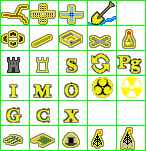
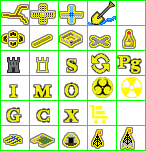
Upgrade
1. Exiting GOTO mode restores game_unit_panel.
2. Differentiate a Sentry unit from a Cargo unit.
3. Better panel info for Transporting/Transported units

Changed region(s): [[0.6027, 0.6887, 0.7397, 0.8212]]

diff --git a/freeciv-web/src/main/webapp/javascript/2dcanvas/tilespec.js b/freeciv-web/src/main/webapp/javascript/2dcanvas/tilespec.js
@@ -1008,7 +1008,7 @@ function get_unit_veteran_sprite(punit)
 }
 
 /**********************************************************************
-  ...
+  ...resequenced in order of frequency
 ***********************************************************************/
 function get_unit_activity_sprite(punit)
 {
@@ -1016,16 +1016,43 @@ function get_unit_activity_sprite(punit)
   var act_tgt  = punit['activity_tgt'];
 
   switch (activity) {
-    case ACTIVITY_POLLUTION:
-      return {"key" : "unit.pollution",
-          "offset_x" : unit_activity_offset_x,
-          "offset_y" : - unit_activity_offset_y};
+    case ACTIVITY_GEN_ROAD:
+      return {"key" : tileset_extra_id_activity_graphic_tag(act_tgt),
+              "offset_x" : unit_activity_offset_x,
+              "offset_y" : - unit_activity_offset_y};
 
-     case ACTIVITY_FALLOUT:
-        return {"key" : "unit.fallout",
+    case ACTIVITY_IRRIGATE:
+        return {"key" : -1 == act_tgt ?
+                          "unit.irrigate" :
+                          tileset_extra_id_activity_graphic_tag(act_tgt),
+                "offset_x" : unit_activity_offset_x,
+                "offset_y" : - unit_activity_offset_y};
+
+    case ACTIVITY_GOTO:
+        return {"key" : "unit.goto",
             "offset_x" : unit_activity_offset_x,
             "offset_y" : - unit_activity_offset_y};
-        
+            
+    case ACTIVITY_FORTIFYING:
+        return {"key" : "unit.fortifying",
+            "offset_x" : unit_activity_offset_x,
+            "offset_y" : - unit_activity_offset_y};
+
+    case ACTIVITY_SENTRY:
+        if (punit['transported']) { // show if unit is "cargo-sentry"
+          return {"key" : "unit.cargo",
+            "offset_x" : unit_activity_offset_x,
+            "offset_y" : - unit_activity_offset_y};
+        } 
+        return {"key" : "unit.sentry",
+            "offset_x" : unit_activity_offset_x,
+            "offset_y" : - unit_activity_offset_y};
+          
+    case ACTIVITY_FORTIFIED:
+        return {"key" : "unit.fortified",
+            "offset_x" : unit_activity_offset_x,
+            "offset_y" : - unit_activity_offset_y};
+
     case ACTIVITY_MINE:
       return {"key"      : -1 == act_tgt ?
                              "unit.plant" :
@@ -1033,35 +1060,13 @@ function get_unit_activity_sprite(punit)
               "offset_x" : unit_activity_offset_x,
               "offset_y" : - unit_activity_offset_y};
 
-    case ACTIVITY_IRRIGATE:
-      return {"key" : -1 == act_tgt ?
-                        "unit.irrigate" :
-                        tileset_extra_id_activity_graphic_tag(act_tgt),
-              "offset_x" : unit_activity_offset_x,
-              "offset_y" : - unit_activity_offset_y};
-
-    case ACTIVITY_FORTIFIED:
-      return {"key" : "unit.fortified",
-          "offset_x" : unit_activity_offset_x,
-          "offset_y" : - unit_activity_offset_y};
-
     case ACTIVITY_BASE:
       return {"key" : tileset_extra_id_activity_graphic_tag(act_tgt),
               "offset_x" : unit_activity_offset_x,
               "offset_y" : - unit_activity_offset_y};
 
-    case ACTIVITY_SENTRY:
-      return {"key" : "unit.sentry",
-          "offset_x" : unit_activity_offset_x,
-          "offset_y" : - unit_activity_offset_y};
-
     case ACTIVITY_PILLAGE:
       return {"key" : "unit.pillage",
-          "offset_x" : unit_activity_offset_x,
-          "offset_y" : - unit_activity_offset_y};
-
-    case ACTIVITY_GOTO:
-      return {"key" : "unit.goto",
           "offset_x" : unit_activity_offset_x,
           "offset_y" : - unit_activity_offset_y};
 
@@ -1075,20 +1080,20 @@ function get_unit_activity_sprite(punit)
           "offset_x" : unit_activity_offset_x,
           "offset_y" : - unit_activity_offset_y};
 
-    case ACTIVITY_FORTIFYING:
-      return {"key" : "unit.fortifying",
+    case ACTIVITY_POLLUTION:
+        return {"key" : "unit.pollution",
+            "offset_x" : unit_activity_offset_x,
+            "offset_y" : - unit_activity_offset_y};
+  
+    case ACTIVITY_FALLOUT:
+      return {"key" : "unit.fallout",
           "offset_x" : unit_activity_offset_x,
           "offset_y" : - unit_activity_offset_y};
-
-    case ACTIVITY_GEN_ROAD:
-      return {"key" : tileset_extra_id_activity_graphic_tag(act_tgt),
-              "offset_x" : unit_activity_offset_x,
-              "offset_y" : - unit_activity_offset_y};
 
     case ACTIVITY_CONVERT:
-      return {"key" : "unit.convert",
-          "offset_x" : unit_activity_offset_x,
-          "offset_y" : - unit_activity_offset_y};
+        return {"key" : "unit.convert",
+            "offset_x" : unit_activity_offset_x,
+            "offset_y" : - unit_activity_offset_y};
   }
 
   if (unit_has_goto(punit)) {

diff --git a/freeciv-web/src/main/webapp/javascript/control.js b/freeciv-web/src/main/webapp/javascript/control.js
@@ -2865,6 +2865,9 @@ function deactivate_goto(will_advance_unit_focus)
 
   // update focus to next unit after 600ms.
   if (will_advance_unit_focus) setTimeout(update_unit_focus, 600);
+  /* if leaving goto mode but not advancing, restore unit dialog to
+     display unit stats instead of 'turns for goto' */
+  else update_active_units_dialog(); 
 
 
 }
@@ -4099,29 +4102,33 @@ function update_active_units_dialog()
       unit_info_html += "<b>" + nations[players[current_focus[0]['owner']]['nation']]['adjective'] + "</b> ";
     }
 
-    unit_info_html += "<b>" + ptype['name'] + "</b>: ";
+    if (ptype['transport_capacity'] > 0) 
+      unit_info_html += "<b>" + ptype['name'] + "</b> <font title='Transport ID' style='font-size:90%' color='#C8E8FF'>#"+aunit['id']+"</font>"
+    else
+      unit_info_html += "<b>" + ptype['name'] + "</b>";
+
     if (get_unit_homecity_name(aunit) != null) {
-      unit_info_html += " " + get_unit_homecity_name(aunit) + " ";
+      unit_info_html += ": " + get_unit_homecity_name(aunit) + " ";
     }
     if (current_focus[0]['owner'] == client.conn.playing.playerno) {
-      unit_info_html += "<span style='color:white'>Moves:<span style='color:lightgreen;font-size:110%;'><b>" + move_points_text(aunit['movesleft']) + "</b></span></span> ";
+      unit_info_html += "<span style='color:white'>Moves:<span style='color:lightgreen;font-size:120%;'><b>" + move_points_text(aunit['movesleft']) + "</b></span></span> ";
 //      unit_info_html += "<span style='color:aqua'>" + get_unit_moves_left(aunit) + "</span> ";
     }
     unit_info_html += "<span title='Attack'>A:<span style='color:gainsboro;font-size:100%;'><b>" + ptype['attack_strength']   // make terser titles to avoid cramped clutter (Lexxie)
     + "</b></span></span> <span title='Defense'>D:<span style='color:gainsboro;font-size:100%;'><b>" + ptype['defense_strength']
     + "</b></span></span> <span title='Firepower'>FP:<span style='color:gainsboro;font-size:100%;'><b>" + ptype['firepower']
-    + "</b></span></span> <span title='Health'>H:<span style='color:lightpink;font-size:110%;'><b>"
+    + "</b></span></span> <span title='Health'>H:<span style='color:lightpink;font-size:120%;'><b>"
     + aunit['hp'] + "</b></span></span>"; //<span style='color:gainsboro;font-size:85%;'>/" + ptype['hp'] + "</span></span>";
     if (aunit['veteran'] > 0) {
       unit_info_html += " <span title='Vet-level'>V:<span style='color:gainsboro;font-size:100%;'><b>" + aunit['veteran'] + "</b></span></span>";
     }
     if (ptype['transport_capacity'] > 0) {
-      unit_info_html += " <span title='T"+aunit['id']+" Cargo Cap.'>C:<span style='color:gainsboro;font-size:100%;'><b>" + ptype['transport_capacity'] + "</b></span></span>";
+      unit_info_html += " <span title='Cargo Capacity'>C:<span style='color:gainsboro;font-size:100%;'><b>" + ptype['transport_capacity'] + "</b></span></span>";
     }
     if (aunit['transported'] && aunit['transported_by']>0) {
-      unit_info_html += " <span style='color:skyblue'><b>ON:</b>T"+aunit['transported_by']+"</span>";
+      unit_info_html += " <span title='Transporter ID' style='color:lightskyblue'><b>On </b>#"+aunit['transported_by']+"</span>";
     }
-    
+
     // Actual fuel remaining is: (turns_of_fuel-1) + moves_left/moves_rate
     if ( (ptype['fuel']>0) && (current_focus[0]['owner']==client.conn.playing.playerno) ) {
       var fuel_left = (aunit['fuel']-1) + aunit['movesleft']/ptype['move_rate'];
